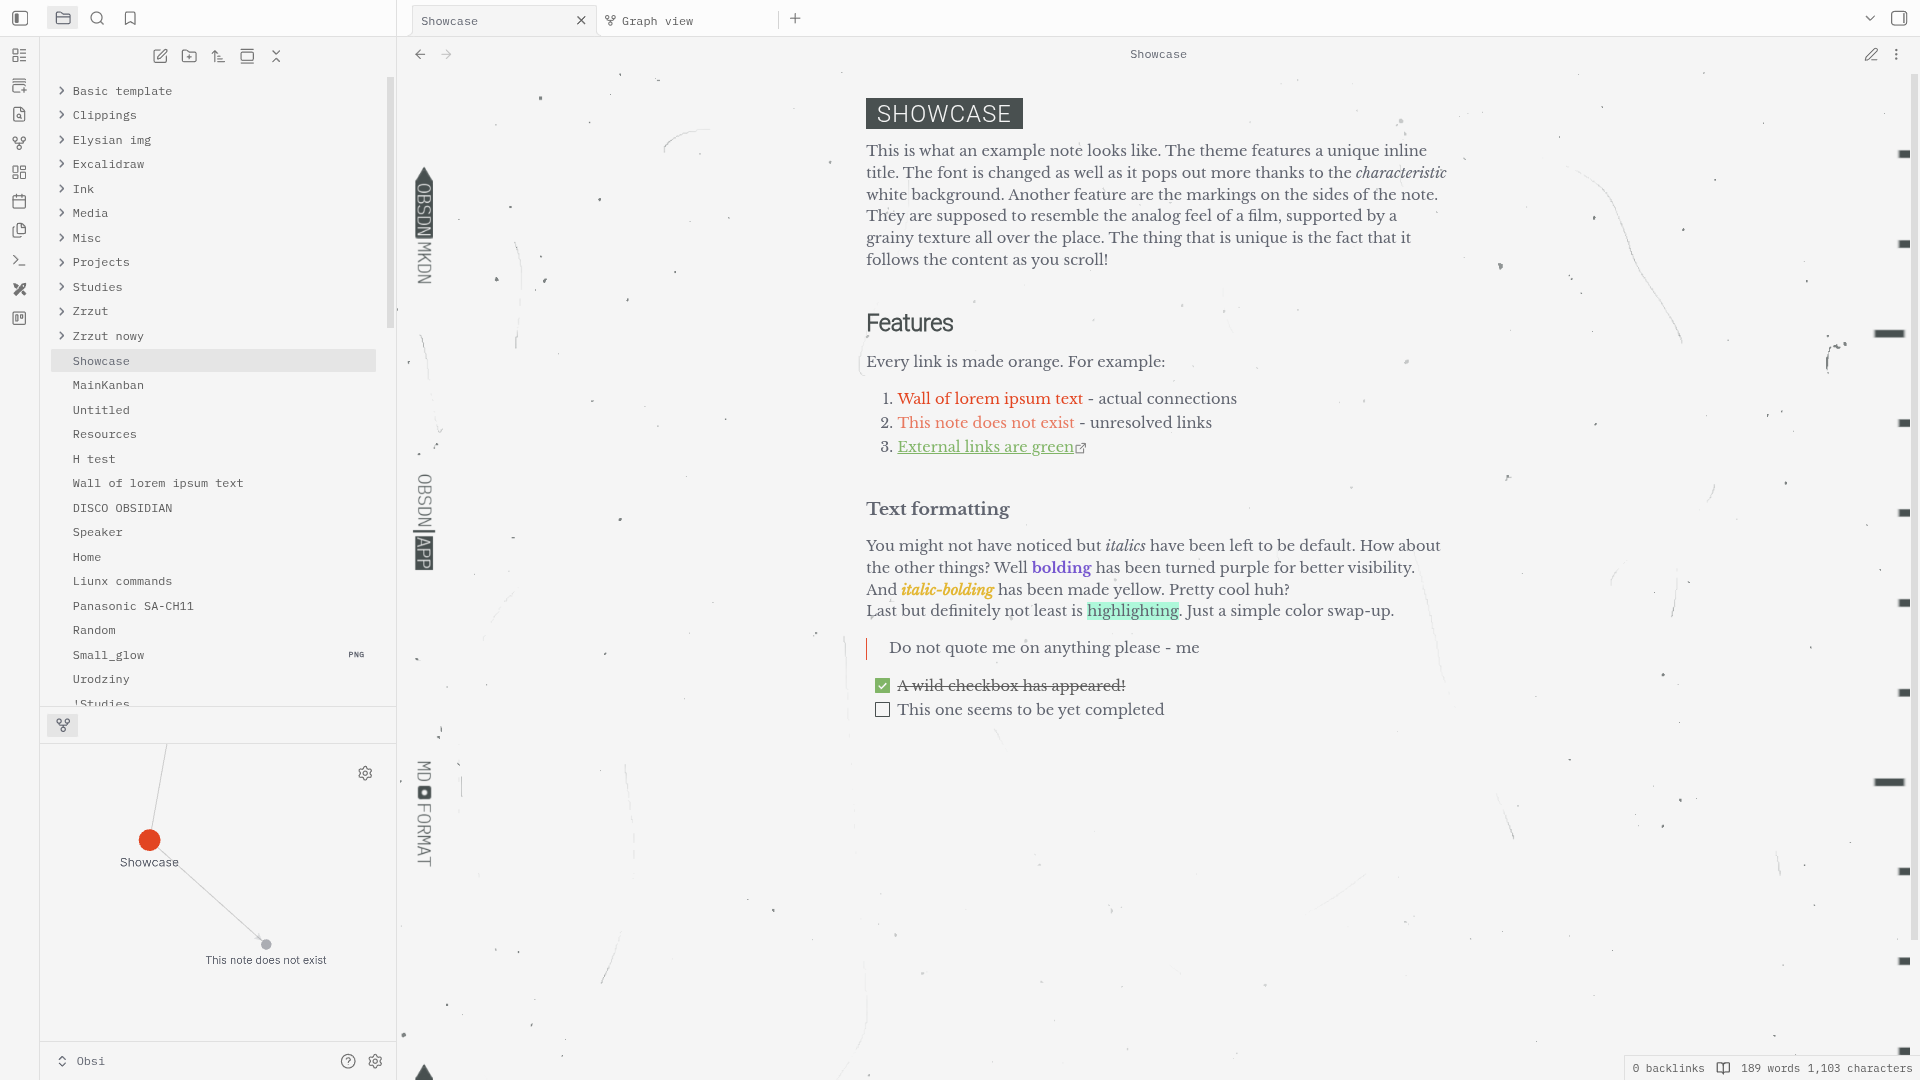
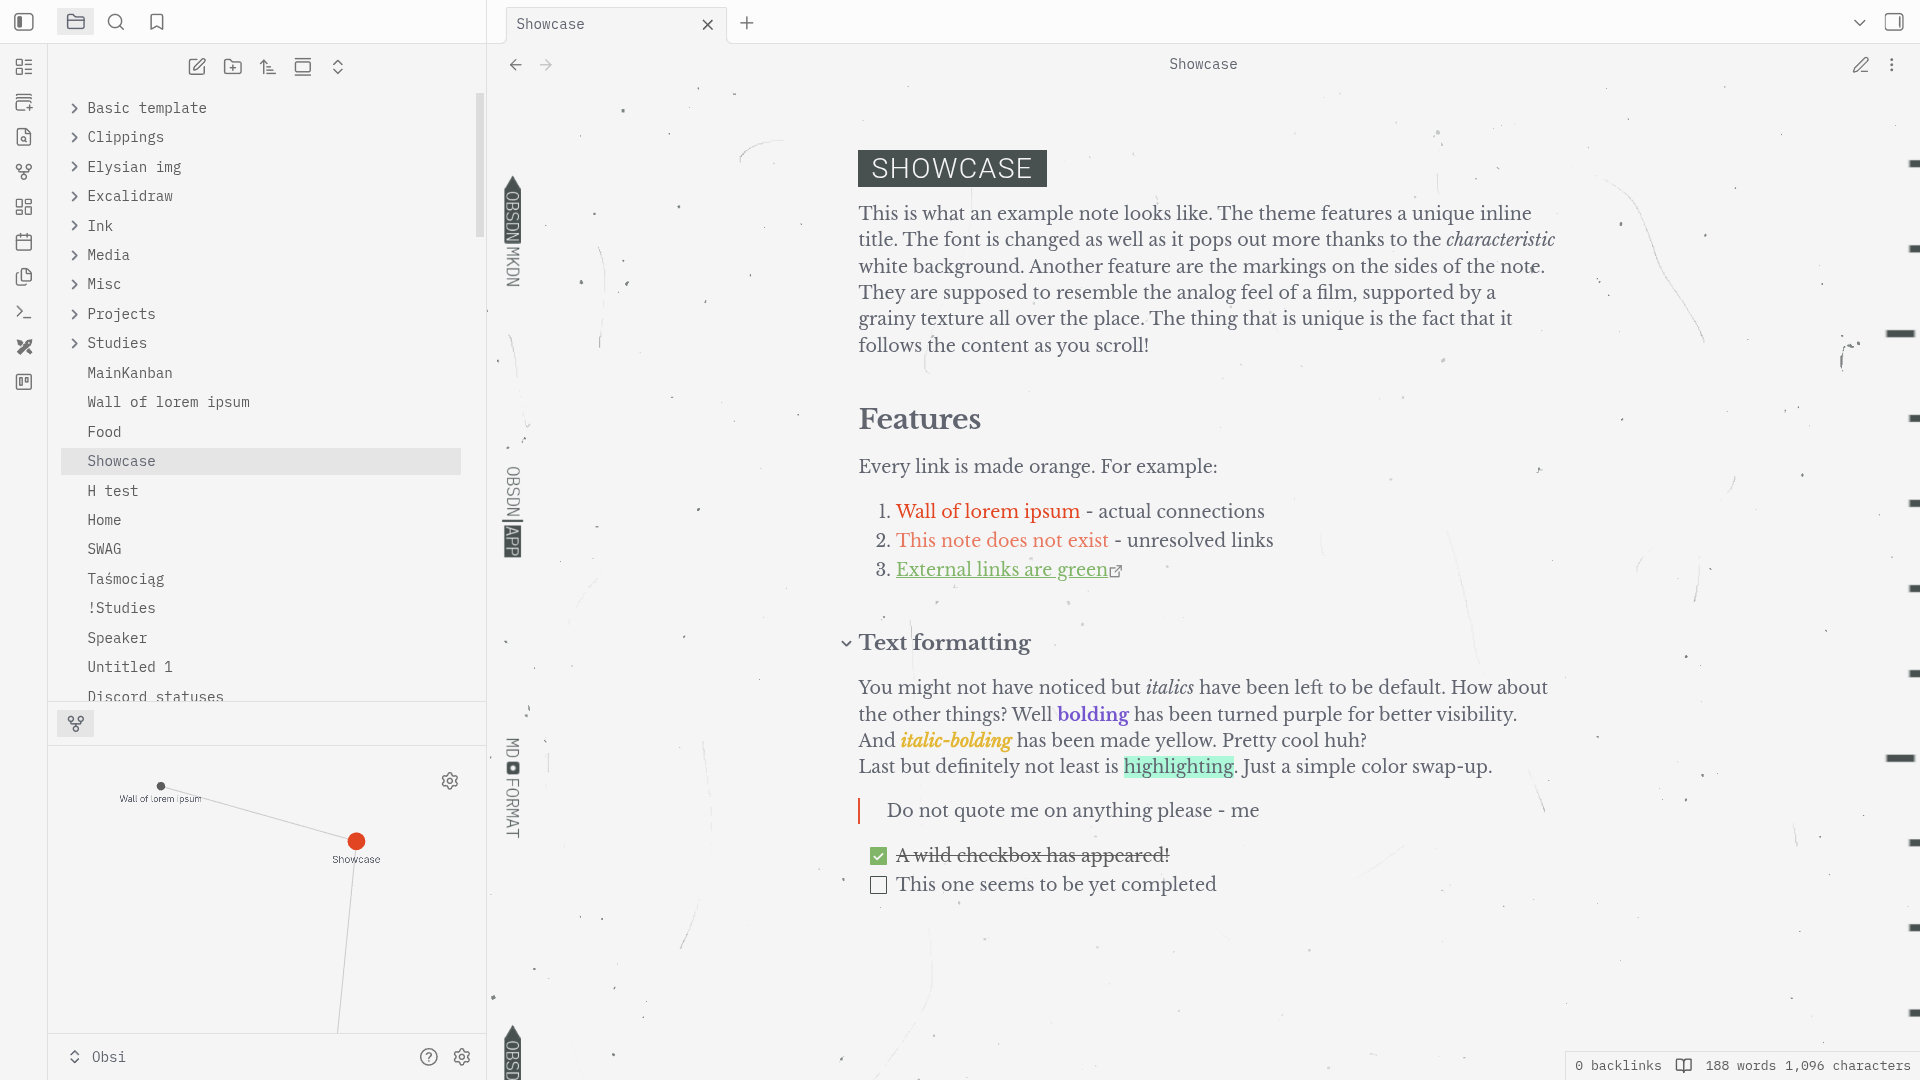
Refresh images, fix wording, add more visual flare

diff --git a/README.md b/README.md
@@ -1,5 +1,6 @@
-# Elysian
-This is a minimalistic [Obsidian](https://obsidian.md/) theme inspired by the UI of [Disco Elysium](https://discoelysium.com/). It has custom embedded backgrounds, fonts and features film-like markings and grainy texture that follows the content. It supports both dark and light color scheme. 
+![Titlepng](tite.png)
+
+This is a simple [Obsidian](https://obsidian.md/) theme inspired by the UI of [Disco Elysium](https://discoelysium.com/). It has film-like markings, and a grainy texture that gives an impression of a rolling film as you scroll. Inline-titles, colorful text formatting and a classic UI font. Supports both light and dark theme.
 
 # Gallery
 ![Gif showcasing the scrollable background](showcase.gif)
@@ -14,27 +15,26 @@ This is a minimalistic [Obsidian](https://obsidian.md/) theme inspired by the UI
 
 # Notes
 - This is my first theme and to be fair any kind of CSS work. I don't guarantee full functionality so please let me know if anything is broken or incompatible.
-- It works best with readable line width turned on (it keeps the aesthetic the most), but the support for full line width is implemented
+- It works best with readable line width turned on, but the support for full line width is implemented
 
 # Features
-- Fully working light theme that has it's own identity
+- Fully working light theme
 - The texture background follows the content as you scroll
 - Some text formatting syntax features colors (bolding and bold-italic)
-- The inline title has a stylish background that makes it stand out
-- Headers h1, h2 , h3 have a different font (same as inline title)
+- The inline title has a fitting background that makes it stand out
 - Internal and external links are different colors
 - Terminal-looking UI font
 - Light theme has darkening of selected line
 
 # Plugins
-Due to it's unsual feature of the background scrolling with the content, it may be buggy with some plugins. In my limited testing it works alright but if you find any problems do let me know.
+Due to it's feature of the background scrolling with the content, it may be buggy with some plugins. In my limited testing it works alright, but if you find any problems do let me know.
 
 # Credits
 Inspiration and some bits of code were taken from:
 - [Obsidian Nord](https://github.com/insanum/obsidian_nord) - gave me insight into many CSS variables
 - [Nier](https://github.com/exloseur3d/nier-theme) - image and background handling
 - [Typewriter](https://github.com/crashmoney/obsidian-typewriter) - importing of fonts 
-- [This](https://forum.obsidian.md/t/trying-to-create-a-background-that-repeats-and-scrolls/90752) - thread on making scroll-able background
+- [This](https://forum.obsidian.md/t/trying-to-create-a-background-that-repeats-and-scrolls/90752) thread on making scrollable background
 
 # Fonts
 Fonts themselves have been embedded in base64 which should provide seamless usage. All fonts used under the Open Font License ([OFL](https://openfontlicense.org)). 